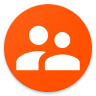
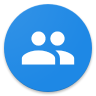
CORRECCIONES DE COLORES DE BOTONES, ICONOS Y REFRESCAR CONTACTOS

diff --git a/app/src/main/java/com/valecom/yingul/main/ContactsActivity.java b/app/src/main/java/com/valecom/yingul/main/ContactsActivity.java
@@ -66,11 +66,19 @@ public class ContactsActivity extends AppCompatActivity {
         super.onCreate(savedInstanceState);
         setContentView(R.layout.activity_contacts);
 
+        progressDialog = new MaterialDialog.Builder(this)
+                .title(R.string.progress_dialog)
+                .content(R.string.please_wait)
+                .cancelable(false)
+                .progress(true, 0).build();
+
         final Toolbar toolbar = (Toolbar) findViewById(R.id.toolbar);
         toolbar.setTitle("Contactos");
         setSupportActionBar(toolbar);
         getSupportActionBar().setDisplayHomeAsUpEnabled(true);
         getSupportActionBar().setDisplayShowHomeEnabled(true);
+
+        toolbar.setBackgroundColor(getResources().getColor(R.color.yngOrange));
 
         FloatingActionButton add_client_button = (FloatingActionButton) findViewById(R.id.add_button);
         add_client_button.setOnClickListener(new View.OnClickListener() {
@@ -111,7 +119,7 @@ public class ContactsActivity extends AppCompatActivity {
     }
 
     public void loadContacts(){
-        //progressDialog.show();
+        progressDialog.show();
         if (progressDialog != null && progressDialog.isShowing()) {
             progressDialog.dismiss();
         }
@@ -273,19 +281,13 @@ public class ContactsActivity extends AppCompatActivity {
                 onBackPressed();
                 return true;
 
-            case R.id.menu_share:
-                /*********poner en el chat**********
-                 Intent sendIntent = new Intent();
-                 sendIntent.setAction(Intent.ACTION_SEND);
-                 sendIntent.putExtra(Intent.EXTRA_TEXT, getResources().getString(R.string.share_msg) + getPackageName());
-                 sendIntent.setType("text/plain");
-                 startActivity(sendIntent);
-                 /*********poner en el chat**********/
-                //shareTextUrl(itemId);
-                //Toast.makeText(this, "Menu", Toast.LENGTH_SHORT).show();
+            case R.id.menu_update:
+
+                loadContacts();
+
                 return true;
 
-            case R.id.menu_fav:
+            case R.id.menu_search:
                 /*SharedPreferences settings = getSharedPreferences(LoginActivity.SESSION_USER, MODE_PRIVATE);
                 if (settings == null || settings.getInt("logged_in", 0) == 0 || settings.getString("api_key", "").equals("")) {
                     Intent intent = new Intent(this, LoginActivity.class);

diff --git a/app/src/main/java/com/valecom/yingul/main/HomeFragment.java b/app/src/main/java/com/valecom/yingul/main/HomeFragment.java
@@ -113,6 +113,7 @@ public class HomeFragment extends Fragment
         final ViewPager viewPager = (ViewPager) view.findViewById(R.id.viewpager);
         loadViewPager(viewPager);
         tabLayout = (TabLayout) view.findViewById(R.id.tabs);
+        tabLayout.setTabGravity(TabLayout.GRAVITY_FILL);
         tabLayout.setupWithViewPager(viewPager);
         tabIcons();
         viewPager.addOnPageChangeListener(new TabLayout.TabLayoutOnPageChangeListener(tabLayout));
@@ -171,6 +172,7 @@ public class HomeFragment extends Fragment
     }
 
     private void tabIcons(){
+        //tabLayout.getTabAt(0).setIcon(R.drawable.ic_buy_now_black);
         tabLayout.getTabAt(0).setCustomView(getTabView(R.drawable.ic_buy_now_black,0));
         if(username==""){
             tabLayout.getTabAt(1).setCustomView(getTabView(R.drawable.ic_notifications_black_24dp,0));
